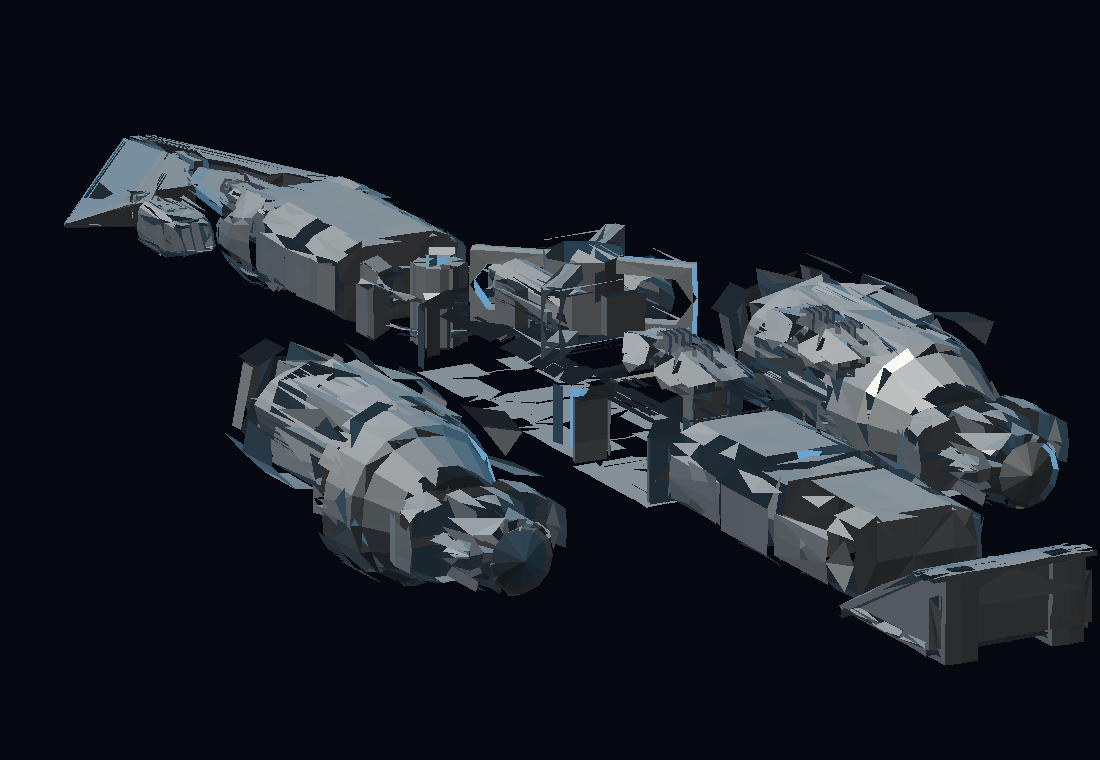
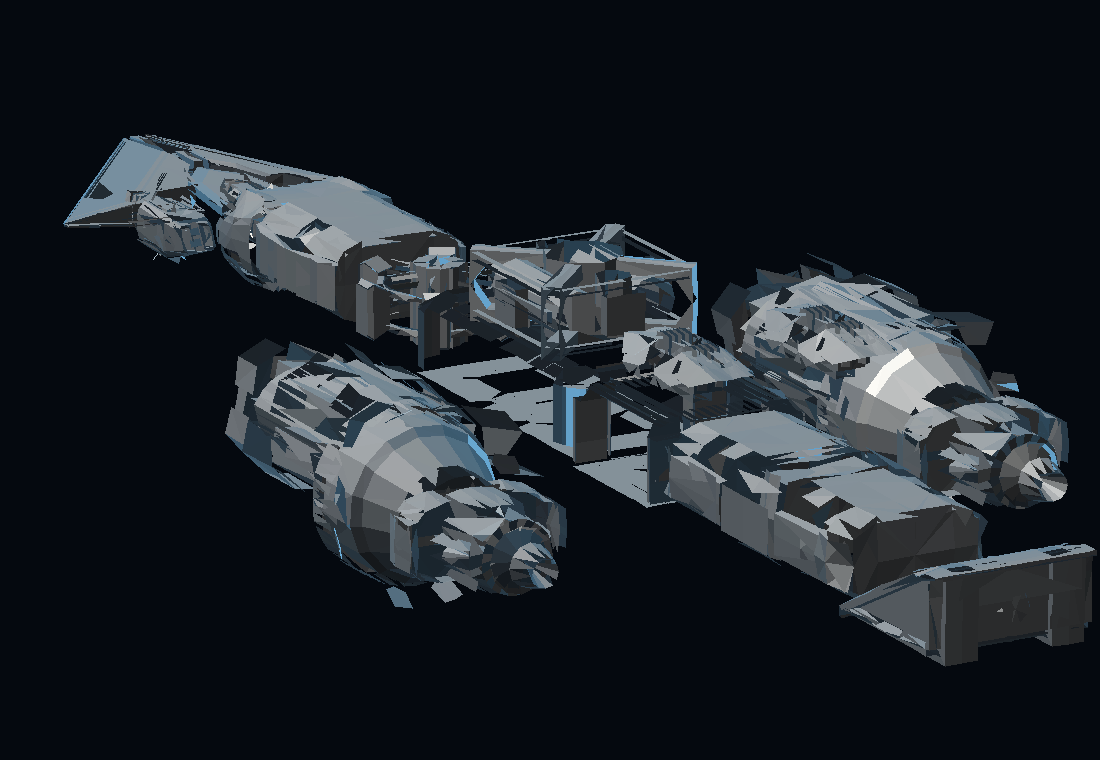
Millennium Falcon: build the saucer as a mosaic, not a box
The pack has no round part anywhere in its 589 assets, so a YT-1300 cannot be a
disc made of one piece. It is now a hexagonal mosaic of half-metre hull plates
laid inside a 2.1-unit radius, with the outer ring stepped down 0.16 and shrunk
so the edge tapers instead of ending in a square shoulder. The mandibles root
inside the rim, the docking rings sit flush against it, and the engine bank moved
in to where the rim actually is (it was 0.4 units behind the hull, hanging in
space).

79 modules, no orphans; the earlier attempt at the same idea put two giant
stretched plates over the whole hull, which read as fins rather than a saucer.

diff --git a/src/lib/iconics/ships-capital.ts b/src/lib/iconics/ships-capital.ts
@@ -22,55 +22,55 @@ import type { V3 } from "../render3d";
 export function millenniumFalcon(bp: Blueprint): NamedRecipe {
   const parts: LatticePlacement[] = [];
 
-  // The saucer is the ship, and the Falcon is nearly as wide as it is long, so the
-  // disc is laid out as a hexagon of cells: a full row across the middle, tapering
-  // rows fore and aft, with scaled fillers biting the corners off.
-  const disc: [number, number, number][] = [
-    [0, 0, 1],
-    [1, 0, 1],
-    [-1, 0, 1],
-    [0.55, 1.05, 0.8],
-    [-0.55, 1.05, 0.8],
-    [0.55, -1.05, 0.8],
-    [-0.55, -1.05, 0.8],
-    [1.55, 0.35, 0.62],
-    [-1.55, 0.35, 0.62],
-    [1.5, -0.7, 0.62],
-    [-1.5, -0.7, 0.62],
-    [0, 1.75, 0.6],
-    [0, -1.75, 0.6],
-  ];
-  disc.forEach(([x, z, sc], i) => {
-    parts.push(put("B_CON_5", [x, 0, z], { scale: sc, role: i === 0 ? "saucer core" : "saucer plate" }));
-  });
+  // The pack has no round part at all — the roundest thing in it is a dome — so
+  // the YT-1300 disc is a MOSAIC: half-metre cells laid on a hex grid and kept
+  // only where they fall inside the circle. The silhouette is what makes the
+  // saucer read, and the silhouette is the grid's outline.
+  const R = 2.1;
+  const pitch = 0.5;
+  for (let z = -R; z <= R + 1e-6; z += pitch) {
+    const half = Math.sqrt(Math.max(0, R * R - z * z));
+    for (let x = -half; x <= half + 1e-6; x += pitch) {
+      // taper the outer rings so the edge of the disc steps down instead of
+      // ending in a square shoulder
+      const r = Math.hypot(x, z) / R;
+      const scale = r > 0.9 ? 0.42 : r > 0.7 ? 0.46 : 0.5;
+      parts.push(
+        put("B_CON_5", [Number(x.toFixed(2)), r > 0.9 ? -0.16 : 0, Number(z.toFixed(2))], {
+          scale,
+          role: r > 0.9 ? "rim plate" : "saucer plate",
+        }),
+      );
+    }
+  }
 
-  // forward mandibles: the Falcon's signature gap, overlapping the saucer rim
+  // forward mandibles, rooted inside the rim so they are one hull with the disc
   parts.push(
-    put("B_CON_5", [0.5, 0, 1.75], { role: "mandible" }),
-    put("B_CON2_2", [0.5, 0, 2.9], { scale: 0.9, role: "mandible" }),
-    put("B_STR_A_N", [0.5, 0, 4.0], { role: "mandible tip" }),
-    put("B_CON_5", [-0.5, 0, 1.75], { mirror: true, role: "mandible" }),
-    put("B_CON2_2", [-0.5, 0, 2.9], { mirror: true, scale: 0.9, role: "mandible" }),
-    put("B_STR_A_N", [-0.5, 0, 4.0], { mirror: true, role: "mandible tip" }),
+    put("B_CON_5", [0.62, 0, 1.65], { scale: 0.6, role: "mandible root" }),
+    put("B_CON_5", [0.62, 0, 2.3], { scale: 0.6, role: "mandible" }),
+    put("B_STR_A_N", [0.62, 0, 2.95], { scale: 0.6, role: "mandible tip" }),
+    put("B_CON_5", [-0.62, 0, 1.65], { mirror: true, scale: 0.6, role: "mandible root" }),
+    put("B_CON_5", [-0.62, 0, 2.3], { mirror: true, scale: 0.6, role: "mandible" }),
+    put("B_STR_A_N", [-0.62, 0, 2.95], { mirror: true, scale: 0.6, role: "mandible tip" }),
   );
 
-  // offset cockpit on its own access tube, starboard
+  // offset cockpit on its own access tube, starboard, jammed into the rim
   parts.push(
-    put("B_CON_5", [1.75, 0.05, 1.15], { scale: 0.9, role: "cockpit tube" }),
-    put("B_COK_B", [2.4, 0.05, 0.85], { role: "cockpit" }),
-    // side docking rings, flush on the rim
-    put("B_SHL_A", [1.78, -0.15, -0.4], { role: "docking ring stbd" }),
-    put("B_SHL_A", [-1.78, -0.15, -0.4], { mirror: true, role: "docking ring port" }),
-    // three heat exchangers across the back, not one big drum
-    ...row("B_TRU_A", [-1.0, 0, 1.0], 0, -2.5, { role: "heat exchanger" }),
-    put("B_TRU_D", [0, 0.05, -3.05], { role: "main engine" }),
+    put("B_CON2_2", [1.55, 0.04, 1.15], { scale: 0.75, role: "cockpit tube" }),
+    put("B_COK_B", [2.2, 0.04, 0.9], { scale: 0.9, role: "cockpit" }),
+    // docking rings flush against the rim
+    put("B_SHL_A", [1.62, -0.1, -0.7], { role: "docking ring stbd" }),
+    put("B_SHL_A", [-1.62, -0.1, -0.7], { mirror: true, role: "docking ring port" }),
+    // engine bank across the back: three exchangers plus the main drive
+    ...row("B_TRU_A", [-0.58, 0, 0.58], 0, -1.9, { role: "heat exchanger" }),
+    put("B_TRU_D", [0, 0.05, -2.0], { role: "main drive" }),
   );
   parts.push(
     ...compact([
-      standing("B_TUR_A", parts, 1.6, 0.4, { role: "dorsal quad turret" }),
-      hanging("B_TUR_A", parts, 1.6, 0.4, { role: "ventral quad turret" }),
-      standing("B_SHL_C", parts, -1.2, 0.6, { role: "sensor dish" }),
-      standing("B_ALK_B", parts, 0, -0.5, { role: "dorsal spine" }),
+      standing("B_TUR_A", parts, 0.7, 1.0, { role: "dorsal quad turret" }),
+      hanging("B_TUR_A", parts, 0.7, 1.0, { role: "ventral quad turret" }),
+      standing("B_SHL_C", parts, -0.9, -0.4, { role: "sensor dome" }),
+      standing("B_ALK_B", parts, 0, 0.4, { role: "dorsal spine" }),
     ]),
   );
 
@@ -79,7 +79,7 @@ export function millenniumFalcon(bp: Blueprint): NamedRecipe {
     view: { yaw: 0.5, pitch: -0.6, zoom: 1 },
     paint: { hull: "#b9bcc0", hullDark: "#3d4045", emissive: "#5ec8ff", glow: 0.55 },
     blurb:
-      "A nine-cell saucer with the corner cut, two forward mandibles, the offset cockpit tube and the heat exchangers across the back.",
+      "A disc of hull plates on a hex grid, two forward mandibles, the offset cockpit tube on its access corridor and the engine bank across the back.",
   });
 }
 
